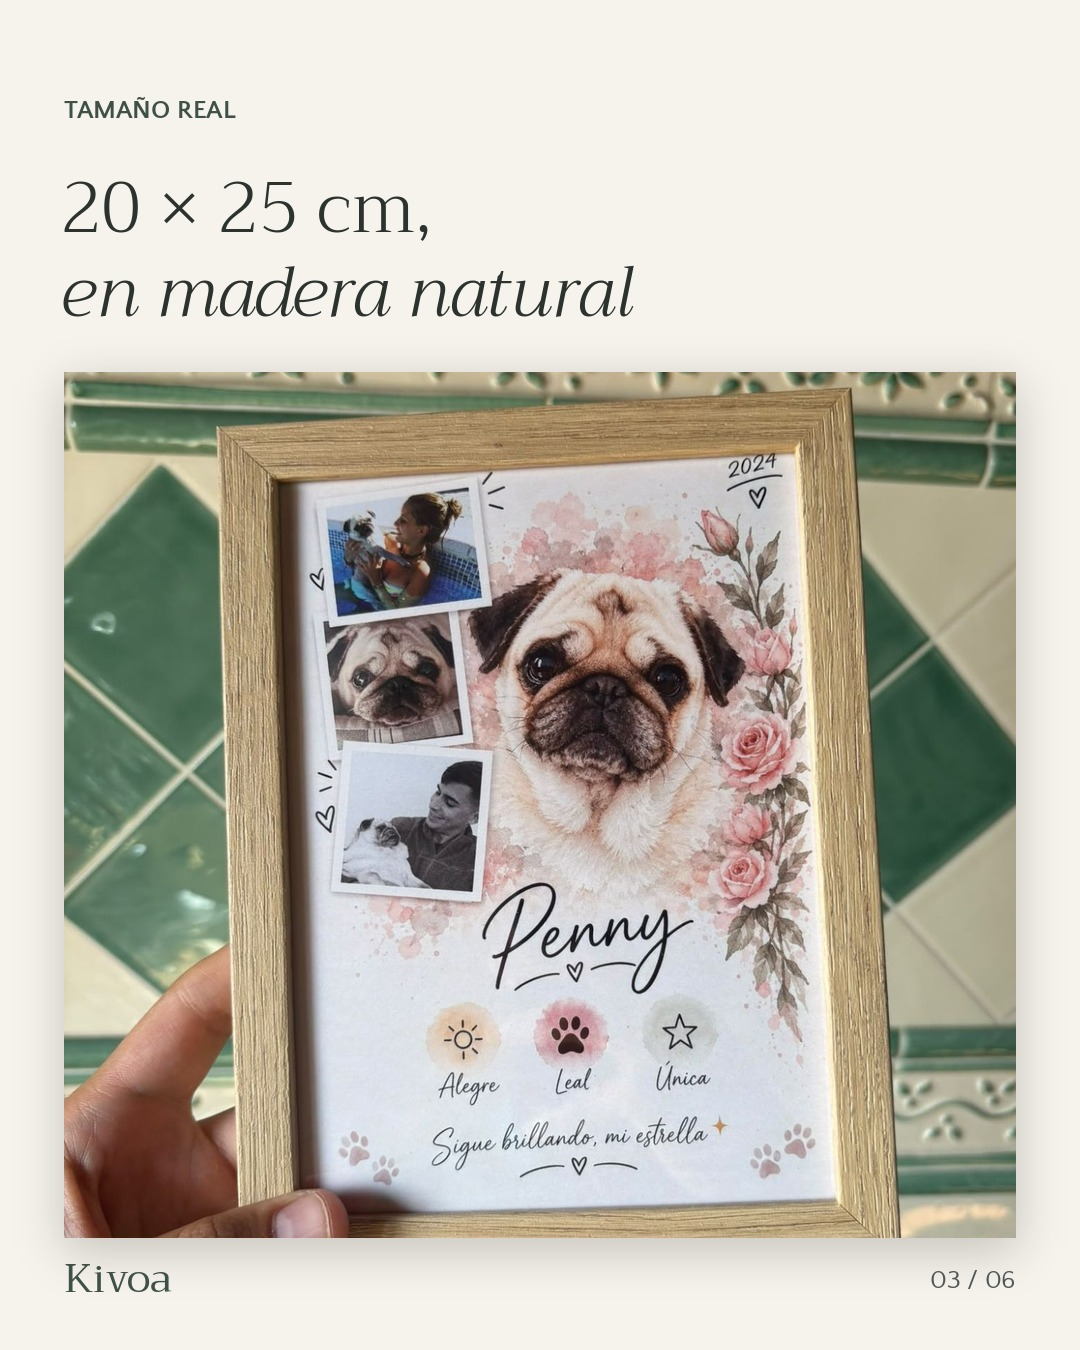
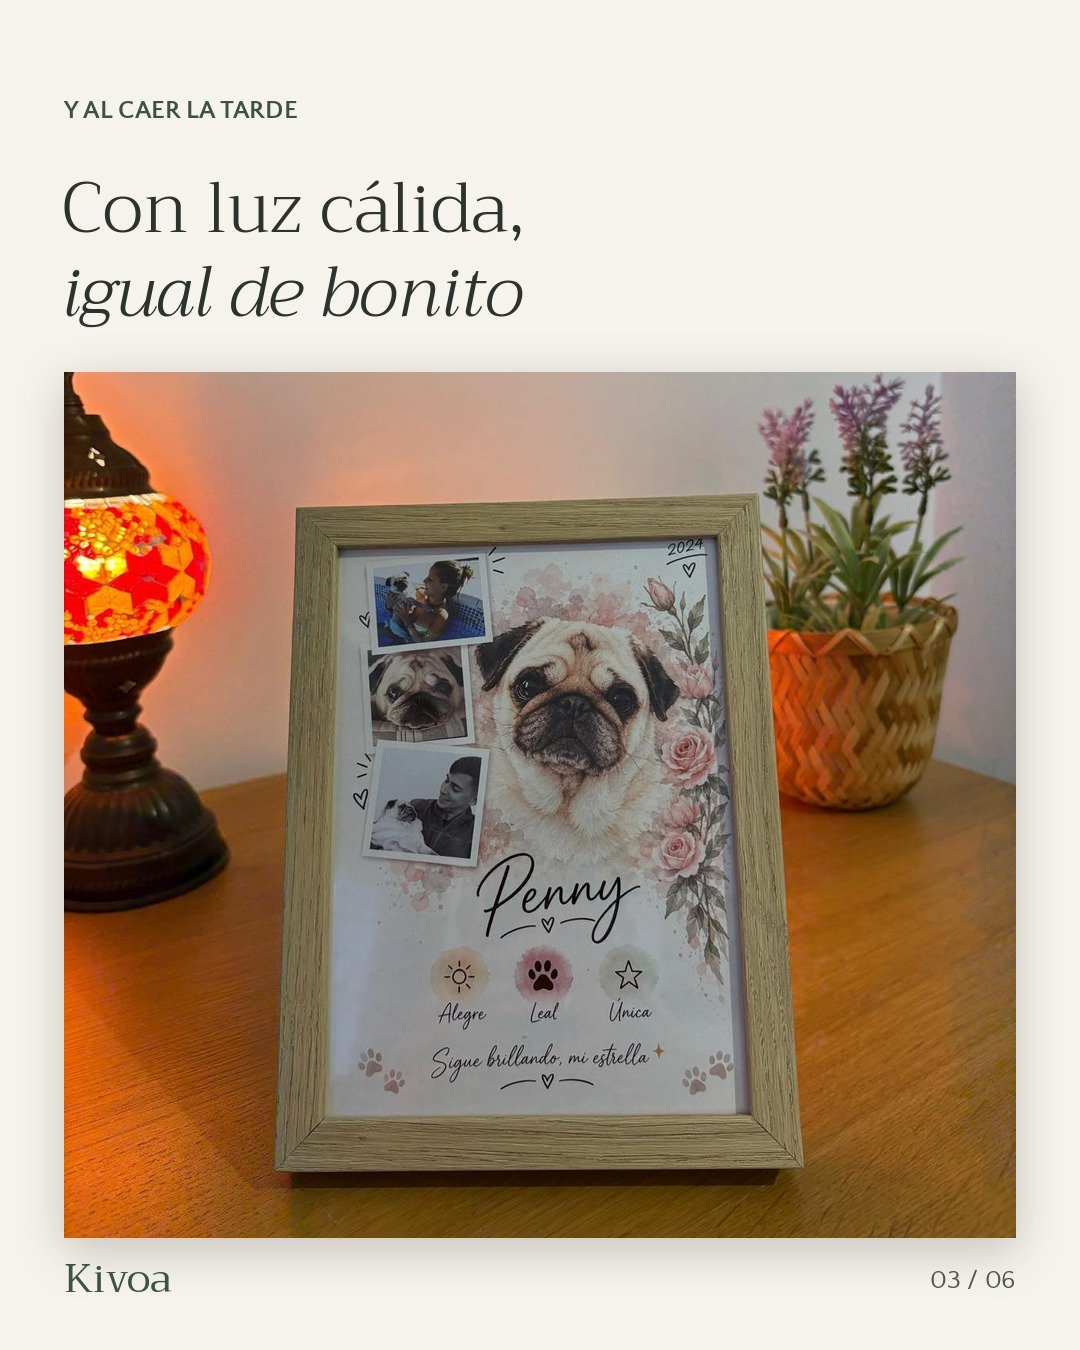
Penny: carrusel con foto de tarde en lugar de la repetida, pin de Pinterest, historia y portada de destacada
Claude-Session: https://claude.ai/code/session_01EXxT3oYALMgVYQXs29BEaV

diff --git a/generador/redes/pin_historia.py b/generador/redes/pin_historia.py
@@ -1,0 +1,70 @@
+"""Pin de Pinterest (1000×1500), historia de Instagram (1080×1920) y portada de destacada a partir de una foto real.
+
+Uso: python3 generador/redes/pin_historia.py FOTO NOMBRE [--cx .42 --cy .6]
+Salida: assets/redes/pinterest/<nombre>.jpg · assets/redes/historias/<nombre>.jpg · assets/redes/historias/destacada-real.jpg
+"""
+import argparse, os, sys
+from PIL import Image, ImageDraw
+
+sys.path.insert(0, os.path.dirname(__file__))
+from publicaciones import (A, abrir, recorte, sombra, PAPEL, TINTA, SALVIA, GRIS, ROSA, TIT, TIT_I, MARCA, TXT, TXT_B)  # noqa: E402
+
+
+def pin(foto, nombre, cx, cy):
+    W, H = 1000, 1500
+    im = Image.new('RGBA', (W, H), PAPEL + (255,))
+    im.paste(recorte(foto, W, 1160, cx, cy), (0, 0))
+    d = ImageDraw.Draw(im)
+    d.rounded_rectangle((40, 40, 372, 96), 28, fill=PAPEL + (235,))
+    d.text((206, 70), 'FOTO REAL · SIN FILTROS', font=TXT_B(22), fill=SALVIA, anchor='mm')
+    d.text((W / 2, 1238), 'Retrato personalizado de tu mascota', font=TIT(46), fill=TINTA, anchor='mm')
+    d.text((W / 2, 1300), 'a partir de una foto de tu móvil', font=TIT_I(40), fill=GRIS, anchor='mm')
+    d.line((W / 2 - 50, 1350, W / 2 + 50, 1350), fill=ROSA, width=3)
+    d.text((W / 2, 1420), 'Kivoa', font=MARCA(52), fill=SALVIA, anchor='mm')
+    os.makedirs(A('redes', 'pinterest'), exist_ok=True)
+    ruta = A('redes', 'pinterest', f'{nombre}.jpg')
+    im.convert('RGB').save(ruta, quality=92)
+    return ruta
+
+
+def historia(foto, nombre, cx, cy):
+    """Foto a pantalla completa con un sello arriba; abajo queda libre para la pegatina de enlace de Instagram."""
+    W, H = 1080, 1920
+    im = Image.new('RGBA', (W, H), PAPEL + (255,))
+    im.paste(recorte(foto, W, H, cx, cy), (0, 0))
+    d = ImageDraw.Draw(im)
+    f = TXT_B(30)
+    t = 'ASÍ LLEGA A CASA · FOTO REAL'
+    w = d.textlength(t, font=f) + 80
+    d.rounded_rectangle(((W - w) / 2, 250, (W + w) / 2, 322), 36, fill=PAPEL + (235,))
+    d.text((W / 2, 287), t, font=f, fill=SALVIA, anchor='mm')
+    os.makedirs(A('redes', 'historias'), exist_ok=True)
+    ruta = A('redes', 'historias', f'{nombre}.jpg')
+    im.convert('RGB').save(ruta, quality=92)
+    return ruta
+
+
+def destacada():
+    """Portada de la destacada "Reales": círculo salvia con un marquito dibujado (se ve recortada en círculo)."""
+    W, H = 1080, 1920
+    im = Image.new('RGB', (W, H), SALVIA)
+    d = ImageDraw.Draw(im)
+    cx, cy = W / 2, H / 2
+    d.rounded_rectangle((cx - 110, cy - 150, cx + 110, cy + 120), 10, outline=PAPEL, width=14)
+    d.rounded_rectangle((cx - 70, cy - 110, cx + 70, cy + 80), 6, outline=PAPEL, width=6)
+    d.line((cx - 40, cy + 120, cx - 80, cy + 190), fill=PAPEL, width=14)
+    d.line((cx + 40, cy + 120, cx + 80, cy + 190), fill=PAPEL, width=14)
+    d.ellipse((cx - 22, cy - 40, cx + 22, cy + 4), fill=ROSA)
+    ruta = A('redes', 'historias', 'destacada-real.jpg')
+    im.save(ruta, quality=95)
+    return ruta
+
+
+if __name__ == '__main__':
+    p = argparse.ArgumentParser()
+    p.add_argument('foto'); p.add_argument('nombre')
+    p.add_argument('--cx', type=float, default=.42); p.add_argument('--cy', type=float, default=.6)
+    a = p.parse_args()
+    f = abrir(a.foto)
+    for r in (pin(f, a.nombre, a.cx, a.cy), historia(f, a.nombre, a.cx, .5), destacada()):
+        print(r)

diff --git a/generador/redes/publicaciones.py b/generador/redes/publicaciones.py
@@ -739,8 +739,8 @@ def publicacion_6():
 T7 = {
     'es': {
         'p': ('Foto real · sin filtros', 'Así llega\na casa', 1),
-        's2': ('Los detalles', 'Su cara, su nombre\ny su frase', 1),
-        's3': ('Tamaño real', '20 × 25 cm,\nen madera natural', 1),
+        's2': ('Los detalles · 20 × 25 cm', 'Su cara, su nombre\ny su frase', 1),
+        's3': ('Y al caer la tarde', 'Con luz cálida,\nigual de bonito', 1),
         's4': ('Listo para poner', 'Con soporte\npara la mesa', 1),
         'pol': ('delante', 'detrás'),
         'h': 'PENNY',
@@ -752,8 +752,8 @@ T7 = {
     },
     'en': {
         'p': ('Real photo · no filters', 'This is how\nit arrives', 1),
-        's2': ('The details', 'Her face, her name\nand her words', 1),
-        's3': ('Real size', '8 × 10 in, in\nnatural wood', 1),
+        's2': ('The details · 8 × 10 in', 'Her face, her name\nand her words', 1),
+        's3': ('And in the evening', 'In warm light,\njust as lovely', 1),
         's4': ('Ready to display', 'With a stand\nfor your shelf', 1),
         'pol': ('front', 'back'),
         'h': 'PENNY',
@@ -768,7 +768,7 @@ T7 = {
 
 def publicacion_7():
     P = lambda f: abrir(A('casos', 'penny', 'producto-real', f))
-    casa, mano, mano2, trasera, frente = P('web-principal.jpg'), P('foto-1.jpg'), P('foto-2.jpg'), P('trasera.jpg'), P('estudio-80.jpg')
+    casa, noche, mano2, trasera, frente = P('web-principal.jpg'), P('lampara-83.jpg'), P('foto-2.jpg'), P('trasera.jpg'), P('estudio-80.jpg')
     for lang, T in T7.items():
         out = A('redes', 'publicaciones', '07-penny-real', lang)
         os.makedirs(out, exist_ok=True)
@@ -786,10 +786,10 @@ def publicacion_7():
         foto_en_zona(im, mano2, cx=.5, cy=.56, zoom=1.2)
         diapos.append(im)
 
-        # 3 · Tamaño real en la mano
+        # 3 · De tarde, con la lámpara encendida (otro ambiente, no otra foto del marco en la mano)
         im = lienzo()
         cabecera(im, *T['s3'])
-        foto_en_zona(im, mano, cx=.45, cy=.5, zoom=1.12)
+        foto_en_zona(im, noche, cx=.5, cy=.62)
         diapos.append(im)
 
         # 4 · Delante y detrás (soporte y colgador)
